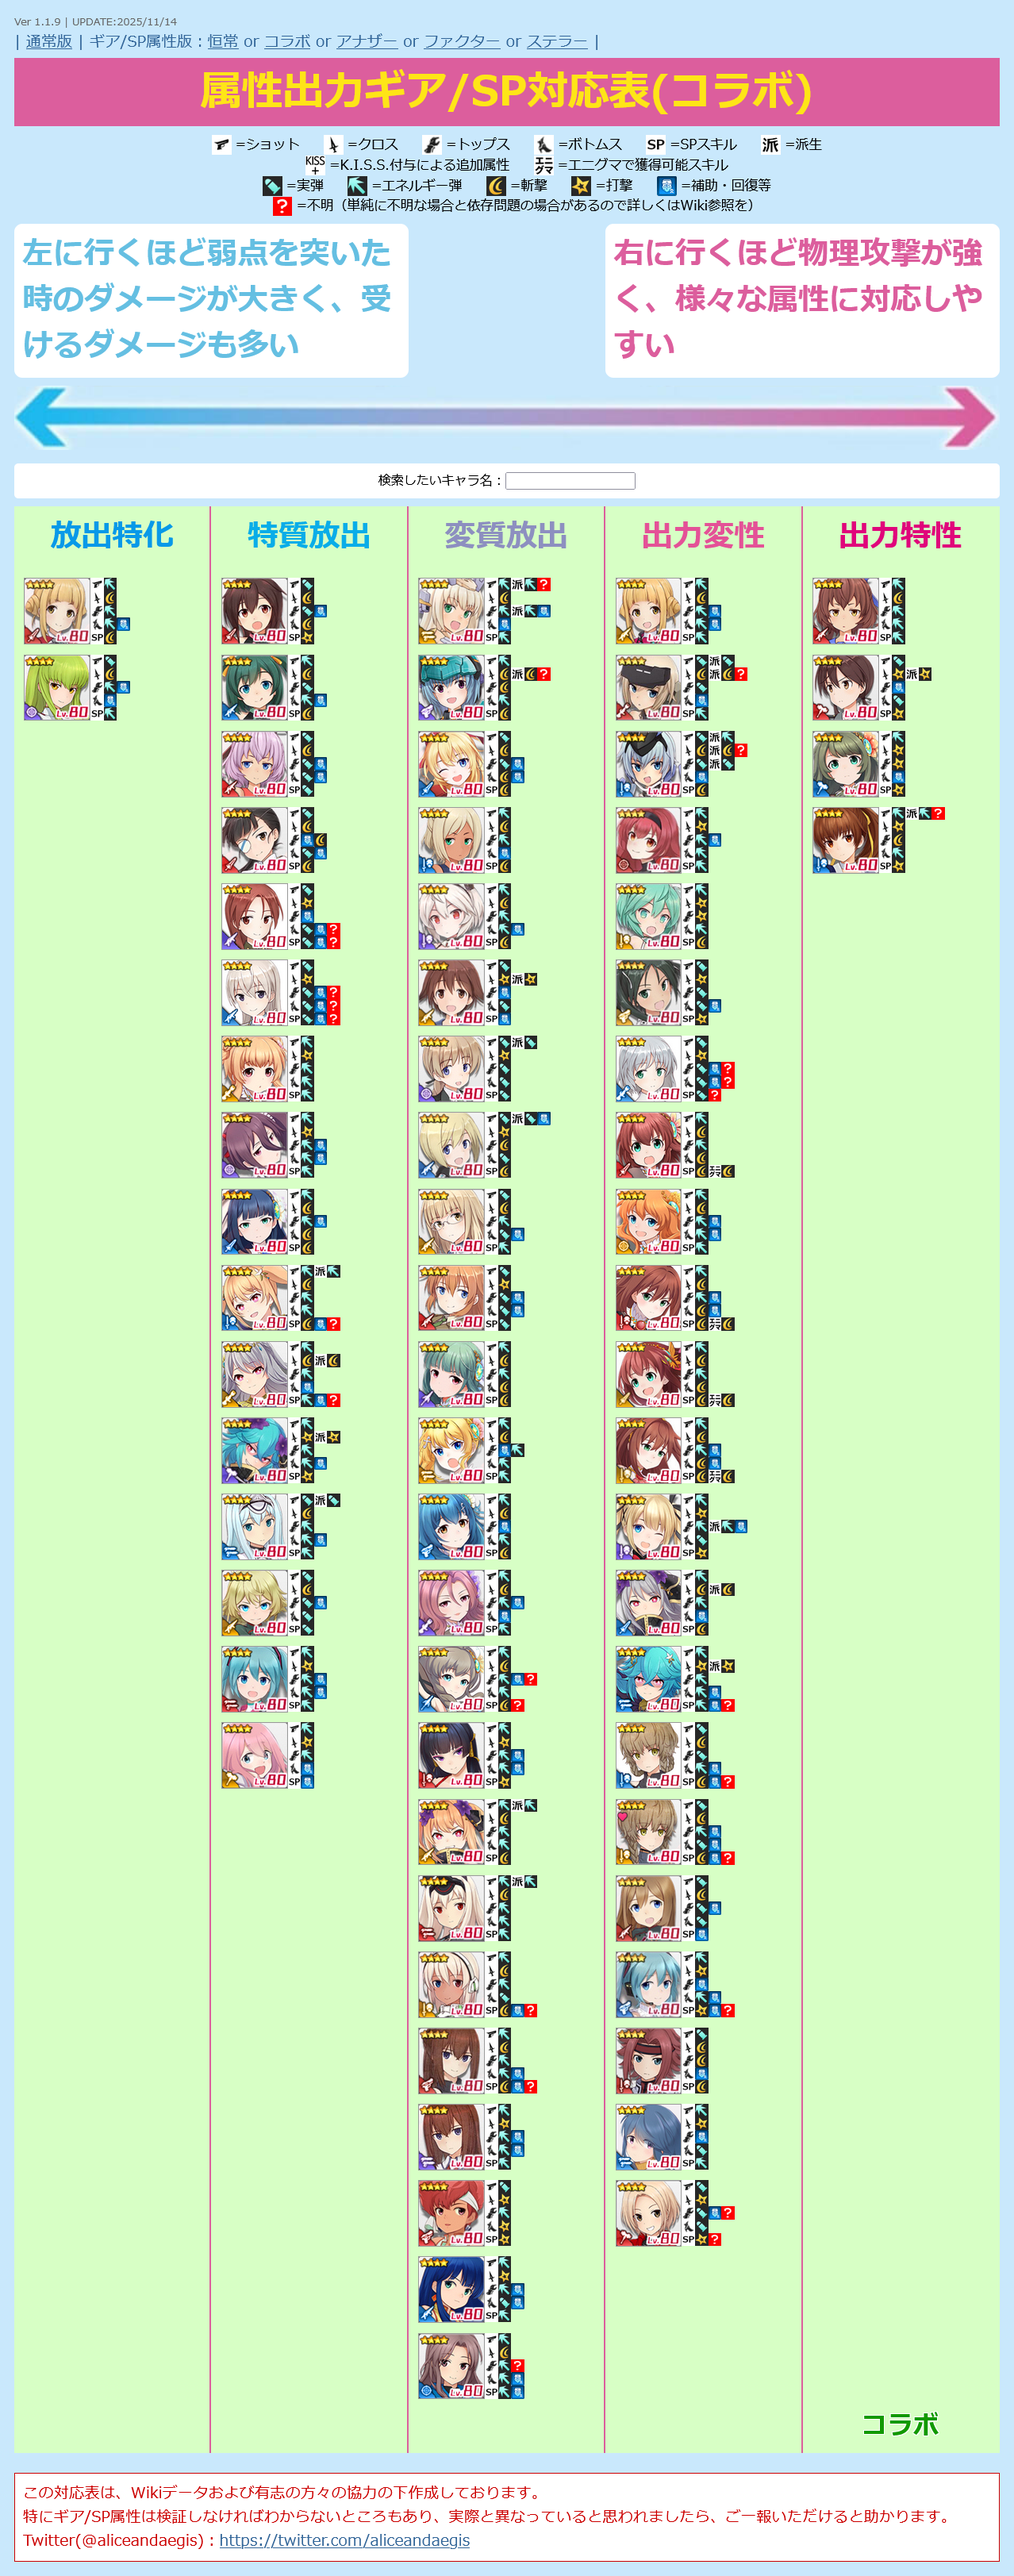
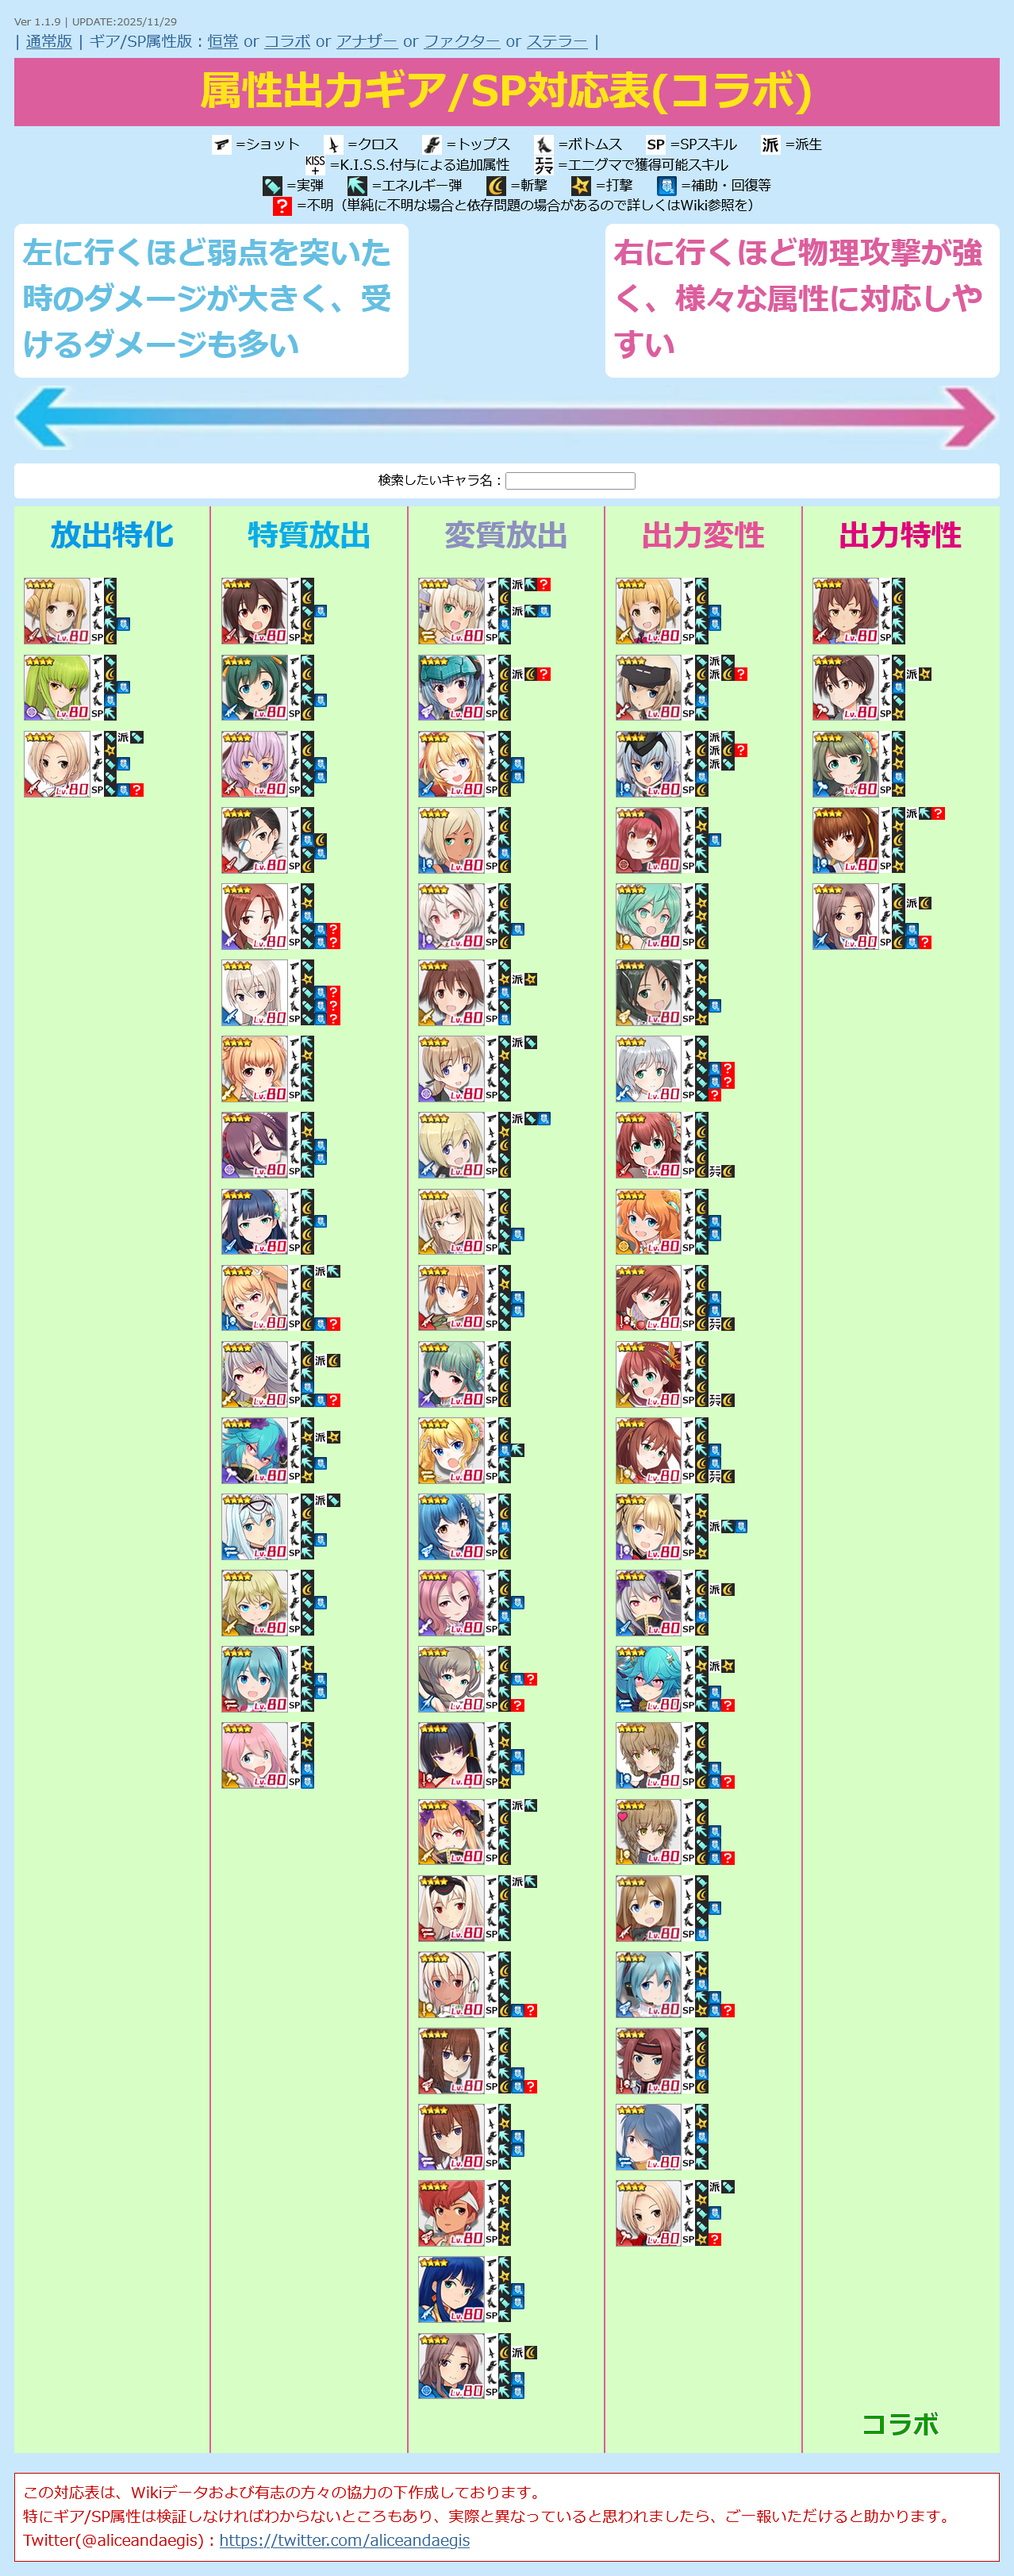
UPDATE charadata
・コラボ 佐士原 七海 / 驀進を追加
・コラボ 蒼浜 麻駆理 / 清澄を追加

diff --git a/alice.html b/alice.html
@@ -12,7 +12,7 @@
   <script>
 
 /* 更新情報 必要に応じて書き換えてください */
-  var version = "Ver 1.1.9 | UPDATE:2025/11/14";
+  var version = "Ver 1.1.9 | UPDATE:2025/11/29";
 
 
 /*
@@ -634,7 +634,7 @@
       "equip2": "4/4",
       "equip3": "2",
       "equip4": "2",
-      "sp": "2?",
+      "sp": "2",
       "attr": "3",
       "link": "https://wikiwiki.jp/alicegear/%E5%B0%8F%E8%8A%A6%E7%9D%A6%E6%B5%B7/%E3%82%B9%E3%83%88%E3%83%AC%E3%83%B3%E3%82%B0%E3%82%B9",
       "category": "12"
@@ -3534,13 +3534,27 @@
       "type": "4",
       "src": "normal-nanami.png",
       "name": "佐士原 七海",
-      "equip1": "1",
+      "equip1": "1/1",
       "equip2": "4",
-      "equip3": "15?",
+      "equip3": "15",
       "equip4": "1",
       "sp": "4?",
       "attr": "3",
       "link": "https://wikiwiki.jp/alicegear/%E4%BD%90%E5%A3%AB%E5%8E%9F%E4%B8%83%E6%B5%B7",
+      "category": "99"
+    },
+    {
+      "id": "861",
+      "type": "1",
+      "src": "another-nanami.png",
+      "name": "佐士原 七海 / 驀進",
+      "equip1": "1/1",
+      "equip2": "4",
+      "equip3": "15",
+      "equip4": "1",
+      "sp": "15?",
+      "attr": "3",
+      "link": "https://wikiwiki.jp/alicegear/%E4%BD%90%E5%A3%AB%E5%8E%9F%E4%B8%83%E6%B5%B7%E9%A9%80%E9%80%B2",
       "category": "99"
     },
     {
@@ -3549,12 +3563,26 @@
       "src": "normal-makuri.png",
       "name": "蒼浜 麻駆理",
       "equip1": "2",
-      "equip2": "3",
-      "equip3": "2?",
+      "equip2": "3/3",
+      "equip3": "2",
       "equip4": "25",
       "sp": "25",
       "attr": "4",
       "link": "https://wikiwiki.jp/alicegear/%E8%92%BC%E6%B5%9C%E9%BA%BB%E9%A7%86%E7%90%86",
+      "category": "99"
+    },
+    {
+      "id": "862",
+      "type": "5",
+      "src": "another-makuri.png",
+      "name": "蒼浜 麻駆理 / 清澄",
+      "equip1": "2",
+      "equip2": "3/3",
+      "equip3": "2",
+      "equip4": "25",
+      "sp": "35?",
+      "attr": "4",
+      "link": "https://wikiwiki.jp/alicegear/%E8%92%BC%E6%B5%9C%E9%BA%BB%E9%A7%86%E7%90%86%E6%B8%85%E6%BE%84",
       "category": "99"
     },
 
